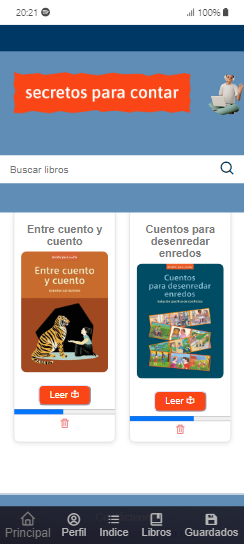
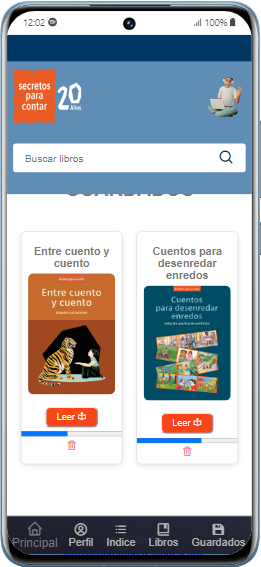
versión final

diff --git a/Inicio/inicio.css b/Inicio/inicio.css
@@ -57,8 +57,8 @@ h1 {
     display: flex;
     justify-content: space-evenly;
     flex-wrap: wrap;
-    height: 40px;
     width: auto;
+    gap: 8px;
 }
 
 .botones__ingreso--login ,
@@ -203,7 +203,7 @@ a {
     top: 5rem;
     transform: translateX(-50%);
     width: 90%;
-    height: 100%;
+    height: 70%;
     max-height: none;
     border-radius: 10px;
     object-fit: cover;
@@ -553,8 +553,7 @@ a {
 
     .botones__ingreso {
         width: 100%;
-        flex-direction: column;
-        margin-bottom: 10px;
+        margin: 15px auto;
     }
 
 
@@ -563,7 +562,7 @@ a {
     .tab-content {
         width: 100%;
         max-width: 600px;
-        height: 500px;
+        height: 540px;
         padding: 20px;
         background: linear-gradient(#4285f4, #5f8db5);
         border-radius: 10px;

diff --git a/Perfil/perfil.css b/Perfil/perfil.css
@@ -32,6 +32,7 @@ body {
 
 .bx {
   cursor: pointer;
+  font-size: 1.6rem;
 }
 
 a {
